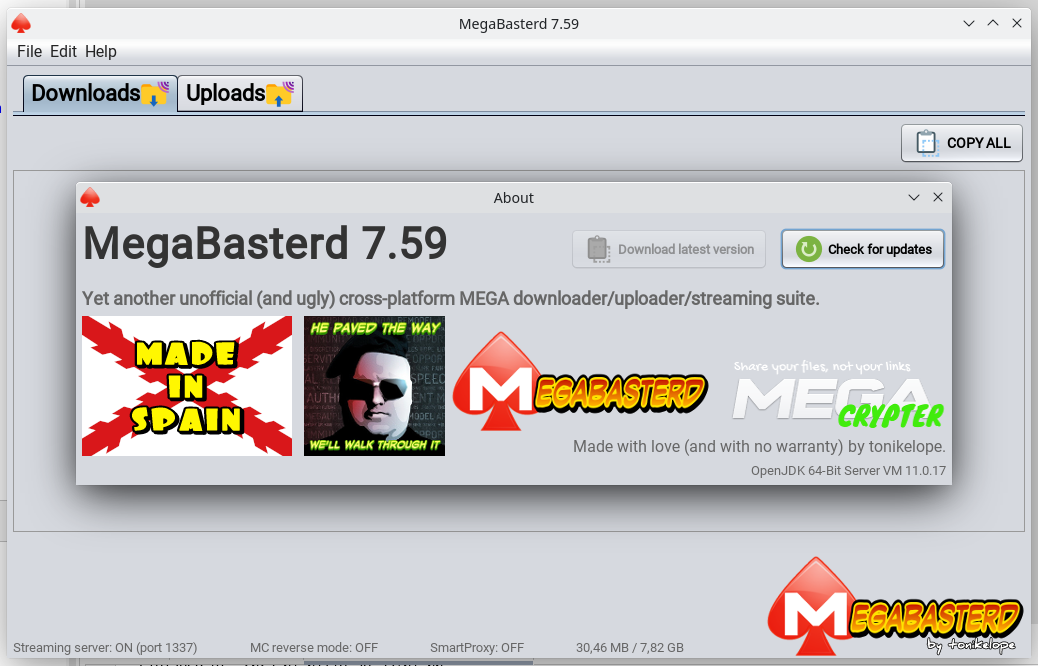
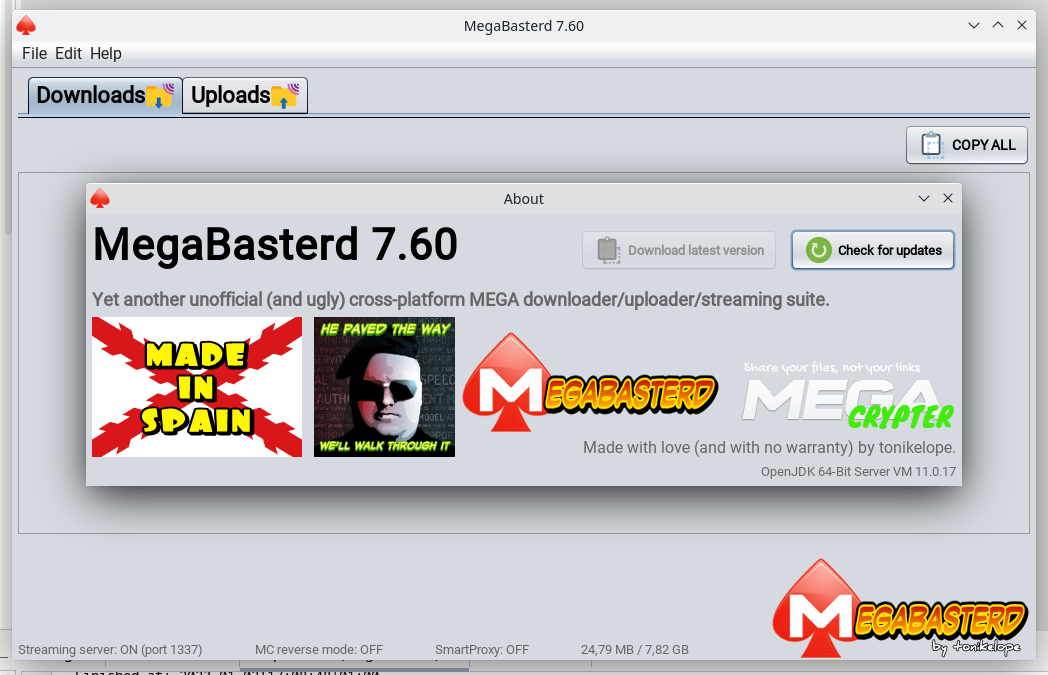
7.60
Very very (very) old bug bug that blocked uploads/downloads when slots were running out

Changed region(s): [[0.0617, 0.2703, 0.9249, 0.7508], [0.0, 0.0, 1.0, 1.0], [0.4316, 0.0, 0.5857, 0.0601]]

diff --git a/src/main/java/com/tonikelope/megabasterd/MainPanelView.java b/src/main/java/com/tonikelope/megabasterd/MainPanelView.java
@@ -289,56 +289,71 @@ public final class MainPanelView extends javax.swing.JFrame {
 
                             String file_path = f.getParentFile().getAbsolutePath().replace(base_path, "");
 
-                            LOG.log(Level.INFO, "{0} FILE_PATH -> {1}", new Object[]{Thread.currentThread().getName(), file_path});
+                            try {
 
-                            String[] dirs = file_path.split("\\" + File.separator);
+                                LOG.log(Level.INFO, "{0} FILE_PATH -> {1}", new Object[]{Thread.currentThread().getName(), file_path});
 
-                            MegaDirNode current_node = file_paths;
+                                String[] dirs = file_path.split("\\" + File.separator);
 
-                            String file_parent = current_node.getNode_id();
+                                MegaDirNode current_node = file_paths;
 
-                            for (String d : dirs) {
+                                String file_parent = current_node.getNode_id();
 
-                                LOG.log(Level.INFO, "{0} DIR -> {1}", new Object[]{Thread.currentThread().getName(), d});
+                                for (String d : dirs) {
 
-                                if (!d.isEmpty()) {
+                                    LOG.log(Level.INFO, "{0} DIR -> {1}", new Object[]{Thread.currentThread().getName(), d});
 
-                                    if (current_node.getChildren().get(d) != null) {
+                                    if (!d.isEmpty()) {
 
-                                        current_node = current_node.getChildren().get(d);
+                                        if (current_node.getChildren().get(d) != null) {
 
-                                        file_parent = current_node.getNode_id();
+                                            current_node = current_node.getChildren().get(d);
 
-                                    } else {
+                                            file_parent = current_node.getNode_id();
 
-                                        res = ma.createDirInsideAnotherSharedDir(d, current_node.getNode_id(), ma.genFolderKey(), i32a2bin(ma.getMaster_key()), parent_node, share_key);
+                                        } else {
 
-                                        file_parent = (String) ((Map) ((List) res.get("f")).get(0)).get("h");
+                                            res = ma.createDirInsideAnotherSharedDir(d, current_node.getNode_id(), ma.genFolderKey(), i32a2bin(ma.getMaster_key()), parent_node, share_key);
 
-                                        current_node.getChildren().put(d, new MegaDirNode(file_parent));
+                                            file_parent = (String) ((Map) ((List) res.get("f")).get(0)).get("h");
 
-                                        current_node = current_node.getChildren().get(d);
+                                            current_node.getChildren().put(d, new MegaDirNode(file_parent));
+
+                                            current_node = current_node.getChildren().get(d);
+                                        }
                                     }
                                 }
-                            }
 
-                            while (getMain_panel().getUpload_manager().getTransference_waitstart_queue().size() >= TransferenceManager.MAX_WAIT_QUEUE || getMain_panel().getUpload_manager().getTransference_waitstart_aux_queue().size() >= TransferenceManager.MAX_WAIT_QUEUE) {
+                                while (getMain_panel().getUpload_manager().getTransference_waitstart_queue().size() >= TransferenceManager.MAX_WAIT_QUEUE || getMain_panel().getUpload_manager().getTransference_waitstart_aux_queue().size() >= TransferenceManager.MAX_WAIT_QUEUE) {
 
-                                synchronized (getMain_panel().getUpload_manager().getWait_queue_lock()) {
-                                    getMain_panel().getUpload_manager().getWait_queue_lock().wait(1000);
+                                    synchronized (getMain_panel().getUpload_manager().getWait_queue_lock()) {
+                                        getMain_panel().getUpload_manager().getWait_queue_lock().wait(1000);
+                                    }
                                 }
-                            }
 
-                            if (!getMain_panel().getUpload_manager().getTransference_preprocess_global_queue().isEmpty()) {
+                                if (!getMain_panel().getUpload_manager().getTransference_preprocess_global_queue().isEmpty()) {
 
-                                Upload upload = new Upload(getMain_panel(), ma, f.getAbsolutePath(), file_parent, null, null, parent_node, share_key, folder_link, dialog.getPriority_checkbox().isSelected());
+                                    Upload upload = new Upload(getMain_panel(), ma, f.getAbsolutePath(), file_parent, null, null, parent_node, share_key, folder_link, dialog.getPriority_checkbox().isSelected());
 
-                                getMain_panel().getUpload_manager().getTransference_provision_queue().add(upload);
+                                    getMain_panel().getUpload_manager().getTransference_provision_queue().add(upload);
 
-                                getMain_panel().getUpload_manager().getTransference_preprocess_global_queue().remove(f);
+                                    getMain_panel().getUpload_manager().getTransference_preprocess_global_queue().remove(f);
 
-                                getMain_panel().getUpload_manager().secureNotify();
+                                    getMain_panel().getUpload_manager().secureNotify();
 
+                                }
+
+                            } catch (Exception ex) {
+
+                                if (!getMain_panel().getUpload_manager().getTransference_preprocess_global_queue().isEmpty()) {
+
+                                    getMain_panel().getUpload_manager().getTransference_preprocess_global_queue().remove(f);
+
+                                    getMain_panel().getUpload_manager().secureNotify();
+
+                                }
+
+                                LOG.log(SEVERE, null, ex);
                             }
 
                         }

diff --git a/src/main/java/com/tonikelope/megabasterd/MainPanel.java b/src/main/java/com/tonikelope/megabasterd/MainPanel.java
@@ -67,7 +67,7 @@ import javax.swing.UIManager;
  */
 public final class MainPanel {
 
-    public static final String VERSION = "7.59";
+    public static final String VERSION = "7.60";
     public static final boolean FORCE_SMART_PROXY = false; //TRUE FOR DEBUGING SMART PROXY
     public static final int THROTTLE_SLICE_SIZE = 16 * 1024;
     public static final int DEFAULT_BYTE_BUFFER_SIZE = 16 * 1024;
@@ -114,10 +114,10 @@ public final class MainPanel {
             if (args.length > 1) {
                 try {
                     Logger.getLogger(MainPanel.class.getName()).log(Level.INFO, "{0} Waiting {1} seconds before start...", new Object[]{Thread.currentThread().getName(), args[1]});
-                    
-                    if(Long.parseLong(args[1])>=0){
+
+                    if (Long.parseLong(args[1]) >= 0) {
                         Thread.sleep(Long.parseLong(args[1]) * 1000);
-                    }else {
+                    } else {
                         CHECK_RUNNING = false;
                     }
                 } catch (InterruptedException ex) {

diff --git a/src/main/java/com/tonikelope/megabasterd/Download.java b/src/main/java/com/tonikelope/megabasterd/Download.java
@@ -496,7 +496,7 @@ public class Download implements Transference, Runnable, SecureSingleThreadNotif
     @Override
     public void checkSlotsAndWorkers() {
 
-        if (!isExit()) {
+        if (!isExit() && !this._finalizing) {
 
             synchronized (_workers_lock) {
 

diff --git a/src/main/java/com/tonikelope/megabasterd/Upload.java b/src/main/java/com/tonikelope/megabasterd/Upload.java
@@ -570,7 +570,7 @@ public class Upload implements Transference, Runnable, SecureSingleThreadNotifia
     @Override
     public void checkSlotsAndWorkers() {
 
-        if (!isExit()) {
+        if (!isExit() && !this._finalizing) {
 
             synchronized (_workers_lock) {
 
